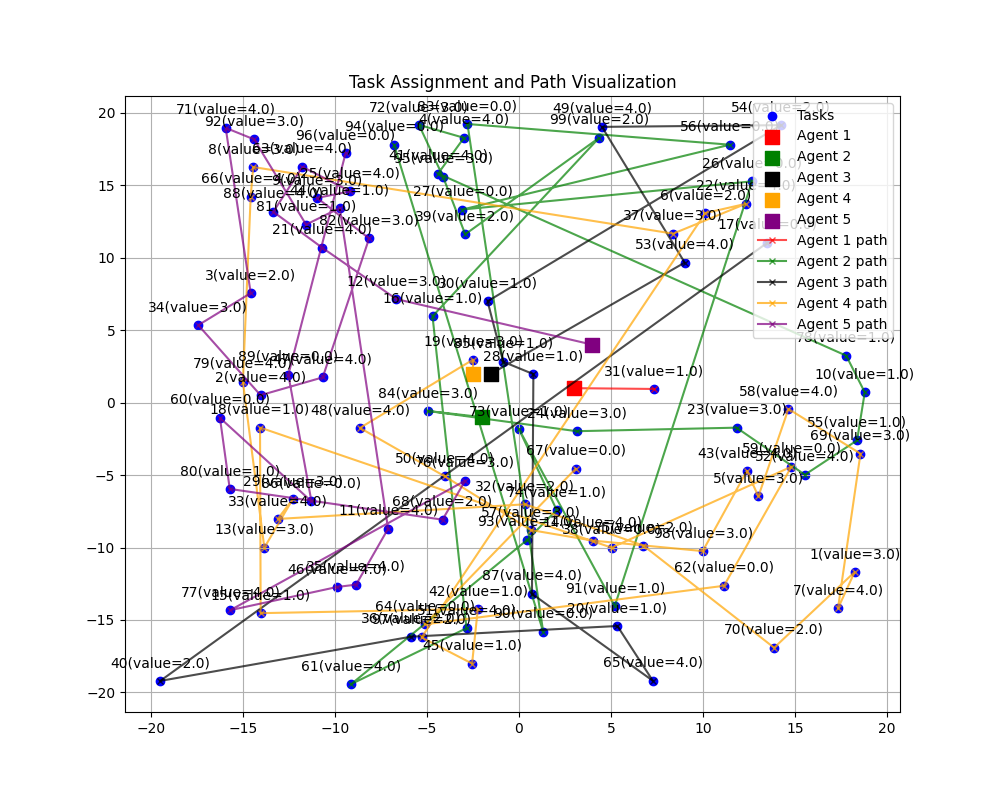
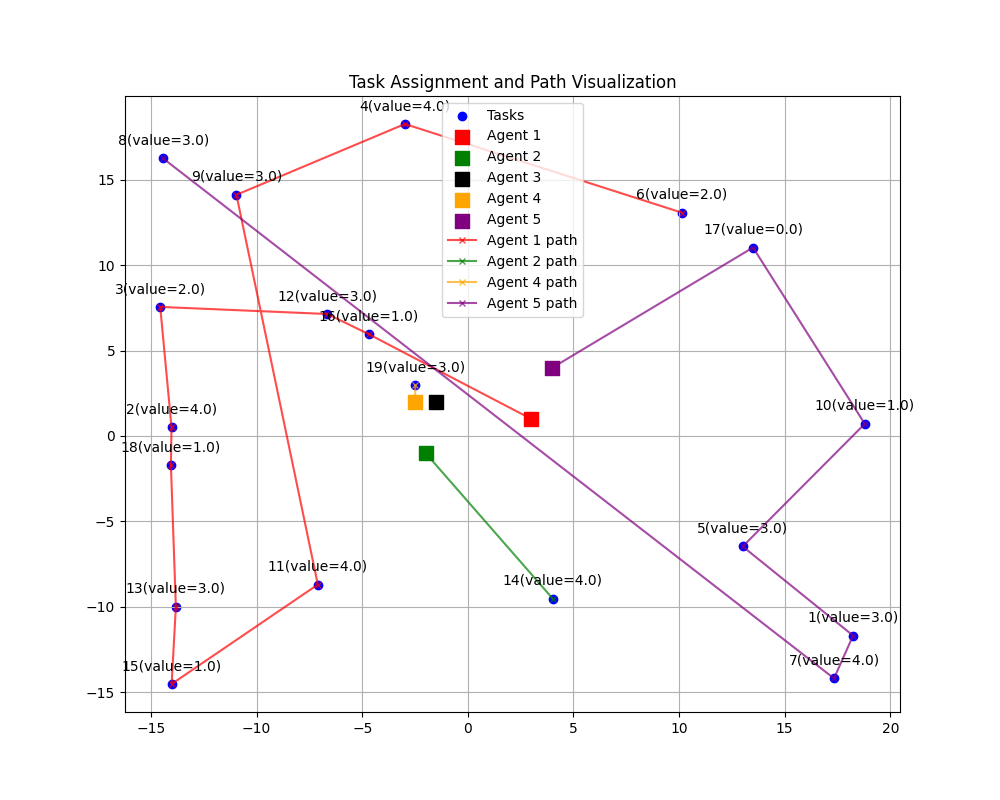
fix bugs

diff --git a/test_two_agent_cbba.py b/test_two_agent_cbba.py
@@ -60,6 +60,8 @@ class MockGuidance:
                 print("INFO:", message)
             def error(self, message):
                 print("ERROR:", message)
+            def warn(self, message):
+                print("WARN:", message)
         return MockLogger()
 
 def test_two_agents():
@@ -70,7 +72,7 @@ def test_two_agents():
     tasks = []
     
     
-    for i in range(1,100):
+    for i in range(1,20):
         tasks.append(Task(id=i, coordinates=np.array([random_generator.uniform(-20, 20), random_generator.uniform(-20, 20)]), value=int(random_generator.integers(5)), seq_num=i))
 
     task_list = TaskList(tasks)

diff --git a/crazychoir_examples/crazychoir_examples/task_assignment_webots/guidance.py b/crazychoir_examples/crazychoir_examples/task_assignment_webots/guidance.py
@@ -7,7 +7,7 @@ def main():
     rclpy.init()
 
     # initialize task guidance
-    opt_settings = {'max_iterations': 50, 'convergence_threshold': 5, 'task_value_weight': 0.95}
+    opt_settings = {'max_iterations': 100, 'convergence_threshold': 3, 'task_value_weight': 0.95}
     executor = PositionTaskExecutor()
     optimizer = CBBAOptimizer(settings=opt_settings)
     
